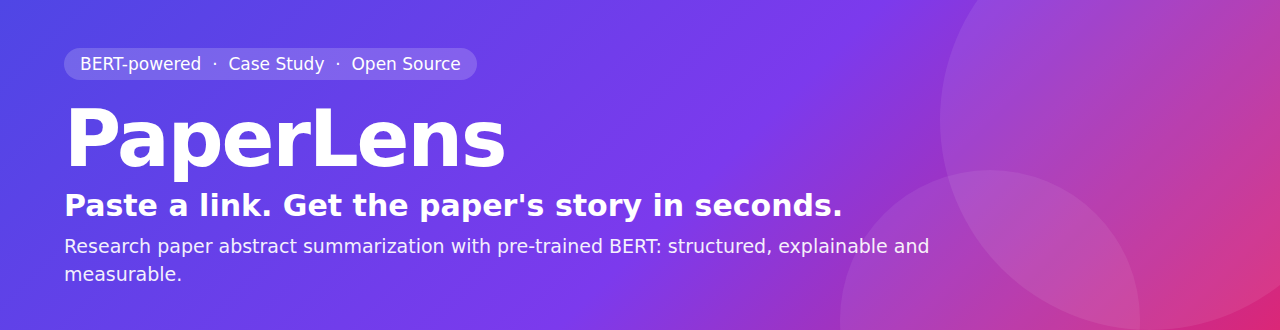
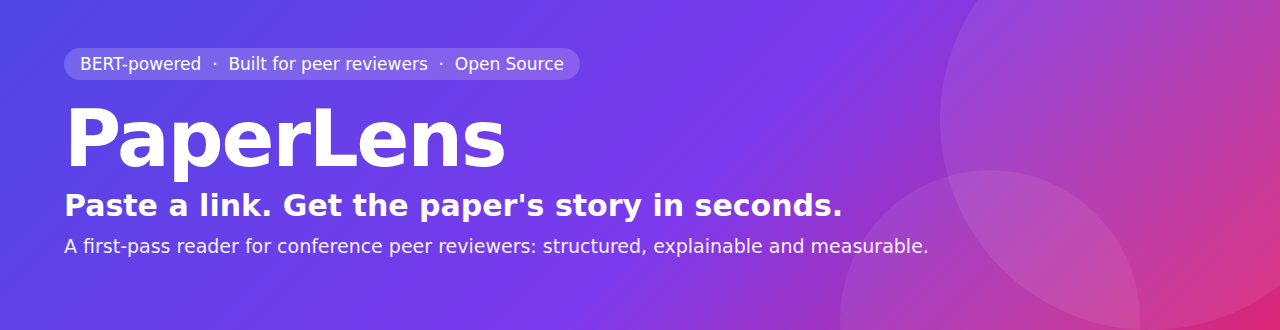
ReadME edits

Changed region(s): [[0.0312, 0.7273, 0.75, 0.7879], [0.1562, 0.1212, 0.4688, 0.2424], [0.0312, 0.8182, 0.1562, 0.8485]]

diff --git a/README.md b/README.md
@@ -4,7 +4,6 @@
 
 <br/>
 
-![Case Study](https://img.shields.io/badge/Type-Case%20Study-db2777?style=for-the-badge)
 ![Python](https://img.shields.io/badge/Python-3.10%2B-3776AB?style=for-the-badge&logo=python&logoColor=white)
 ![BERT](https://img.shields.io/badge/Model-BERT-6366f1?style=for-the-badge)
 ![License](https://img.shields.io/badge/License-MIT-22c55e?style=for-the-badge)
@@ -18,7 +17,7 @@
 
 [![Open In Colab](https://colab.research.google.com/assets/colab-badge.svg)](https://colab.research.google.com/github/Cipher-Sheild/paperlens/blob/main/notebooks/Colab_Launcher.ipynb)
 
-**[Case Study](#case-study) · [Demo](#demo) · [Quick Start](#quick-start) · [How It Works](#how-it-works) · [Usage](#usage) · [Evaluation](#evaluation) · [FAQ](#troubleshooting--faq)**
+**[Why I Built This](#why-i-built-this) · [Demo](#demo) · [Quick Start](#quick-start) · [How It Works](#how-it-works) · [Usage](#usage) · [Evaluation](#evaluation) · [FAQ](#troubleshooting--faq)**
 
 </div>
 
@@ -26,9 +25,9 @@
 
 ## Overview
 
-**PaperLens** reads a research paper's **Introduction** and **Conclusion**, understands every sentence with a pre-trained **BERT** model, and returns a **concise, structured and measurable** summary. It is explainable too: you can see exactly which sentences were chosen and what role each one plays (research problem, approach, findings, conclusion).
+**PaperLens is a first-pass reading assistant for peer reviewers and researchers.** It reads a research paper's **Introduction** and **Conclusion**, understands every sentence with a pre-trained **BERT** model, and returns a **concise, structured and measurable** summary. It is explainable too: you can see exactly which sentences were chosen and what role each one plays (research problem, approach, findings, conclusion).
 
-> 📚 **This project is a case study** in applied NLP: *"Research Paper Abstract Summarization using a pre-trained BERT-based model in Google Colab with Python."* It starts from the assignment and grows into a complete, tested, deployable application.
+> 🎓 **Built by a peer reviewer, for peer reviewers.** When a conference hands you dozens of manuscripts, you need to know quickly what each one claims so you can decide where to dig deeper. That is what PaperLens does. [Read the story below](#why-i-built-this).
 
 <table>
 <tr>
@@ -39,12 +38,17 @@
 </tr>
 </table>
 
+| | |
+|---|---|
+| **Input** | A paper's Introduction and Conclusion: found automatically in a PDF or arXiv link, or pasted by hand |
+| **Output** | A concise summary highlighting the **research problem, approach, major findings and conclusion** |
+
 ## Why I Built This
 
 > [!NOTE]
 > **Built for peer review.** I was invited to serve as a **peer reviewer** for an international networking conference and was assigned **a large number of papers** to read, summarise and review. Going through every manuscript in full, just to find out where to focus, took far too long. **PaperLens is the tool I built to speed up that first pass.** In seconds it tells me what a paper sets out to solve, how it does it, what it found and what it concludes, so I can spend my time on the careful, critical part of the review.
 
-That need is also the **case study** this repository answers: *research paper abstract summarization with a pre-trained BERT model.*
+That need shaped the design: authors state their problem and outcomes in the Introduction and Conclusion, so PaperLens reads those two sections and returns a short, structured summary you can check against the paper in seconds.
 
 | A reviewer asks... | Where PaperLens answers |
 |---|---|
@@ -62,7 +66,6 @@ That need is also the **case study** this repository answers: *research paper ab
 
 ## Table of Contents
 - [Why I Built This](#why-i-built-this)
-- [Case Study](#case-study)
 - [Demo](#demo)
 - [Features](#features)
 - [Quick Start](#quick-start)
@@ -81,31 +84,6 @@ That need is also the **case study** this repository answers: *research paper ab
 - [Author](#author) · [License](#license)
 
 ---
-
-## Case Study
-
-### Problem statement
-A university research repository contains lengthy research papers that make it difficult for students and researchers to quickly understand the main contribution of a paper. The task is to develop a **text summarization model using a pre-trained BERT-based model in Google Colab with Python** that generates a concise summary of a research paper.
-
-| | |
-|---|---|
-| **Input** | Long research-paper content (Introduction and Conclusion) |
-| **Output** | A concise summary highlighting the **research problem, approach, major findings and conclusion** |
-
-### Requirements and where they are implemented
-
-| # | Requirement | Status | Implementation |
-|---|---|:---:|---|
-| 1 | Take the **Introduction and Conclusion** of a paper as input | ✅ | `pdf_utils.py` finds both sections automatically in a PDF; you can also paste them |
-| 2 | Use a **pre-trained BERT-based** summarization model | ✅ | `embedder.py` (BERT / SciBERT / Sentence-BERT) + `extractive.py` (K-Means / TextRank) |
-| 3 | Generate a **concise summary** with the key research information | ✅ | `pipeline.py`, with `structure.py` labelling problem / approach / findings / conclusion |
-| 4 | **Display** the original text and the generated summary | ✅ | *Summary*, *Highlighted paper* and *Original text* views in the web app |
-| 5 | **Compare** original and summarized text lengths | ✅ | `evaluate.py`: characters, words, sentences, compression %, reduction % |
-| ➕ | Graphs | ✅ | `visualize.py`: one 6-panel dashboard |
-| ➕ | Runs in **Google Colab** | ✅ | [`notebooks/Colab_Launcher.ipynb`](notebooks/Colab_Launcher.ipynb) |
-
-### Beyond the case study
-Paper links (arXiv / DOI / PDF URL) · safe downloader · automatic section detection · PDF-glitch cleaning · sentence-quality scoring · embedding centering · role labelling · ROUGE evaluation · multi-paper benchmark · web UI · CLI · Python API · 32 automated tests · export to Markdown / JSON.
 
 ---
 
@@ -379,7 +357,7 @@ flowchart LR
 | Step | What happens | Why |
 |---|---|---|
 | **1. Fetch** | `fetch.py` turns an arXiv id / DOI / link into a PDF and downloads it safely | One input box for any source |
-| **2. Find sections** | `pdf_utils.py` locates *Abstract*, *Introduction* and *Conclusion* by their headings | The case study uses exactly these sections: they hold the problem, motivation and results |
+| **2. Find sections** | `pdf_utils.py` locates *Abstract*, *Introduction* and *Conclusion* by their headings | These sections hold the problem, motivation and results, so they are the quickest way to grasp a paper |
 | **3. Clean and split** | `preprocess.py` repairs PDF glitches and splits the text into sentences, protecting `et al.`, `e.g.`, `Fig.` | Garbage in, garbage out |
 | **4. Embed** | A pre-trained BERT-style encoder turns each sentence into a vector (mean pooling, L2-normalised) | Similar meaning gives similar vectors |
 | **5. Centre** | The average vector is subtracted | Raw BERT vectors all point in a similar direction, so every sentence looks alike; centring restores contrast |
@@ -475,7 +453,7 @@ print(res.coverage, res.keyword_retention)
 | Name in the app | Hugging Face id | Size | Best for |
 |---|---|---|---|
 | **Sentence-BERT MiniLM** *(default)* | `sentence-transformers/all-MiniLM-L6-v2` | ~90 MB | fast, strong sentence similarity |
-| **BERT base** | `bert-base-uncased` | ~440 MB | the classic model from the case study |
+| **BERT base** | `bert-base-uncased` | ~440 MB | the classic, widely used BERT model |
 | **SciBERT** | `allenai/scibert_scivocab_uncased` | ~440 MB | scientific vocabulary |
 | **Baseline (no BERT)** | built-in word-count hashing | 0 | offline use and as a comparison baseline |
 | *Any BERT-style model* | pass the id with `embedding_model=` | – | your own experiments |
@@ -646,7 +624,7 @@ Being honest about what this does *not* do:
 **Cipher-Sheild**<br/>
 GitHub: [@Cipher-Sheild](https://github.com/Cipher-Sheild)
 
-Built as a case study on *Research Paper Abstract Summarization* using pre-trained BERT, to support my work as a conference peer reviewer.
+Built to support my work as a conference peer reviewer.
 
 ## License
 
